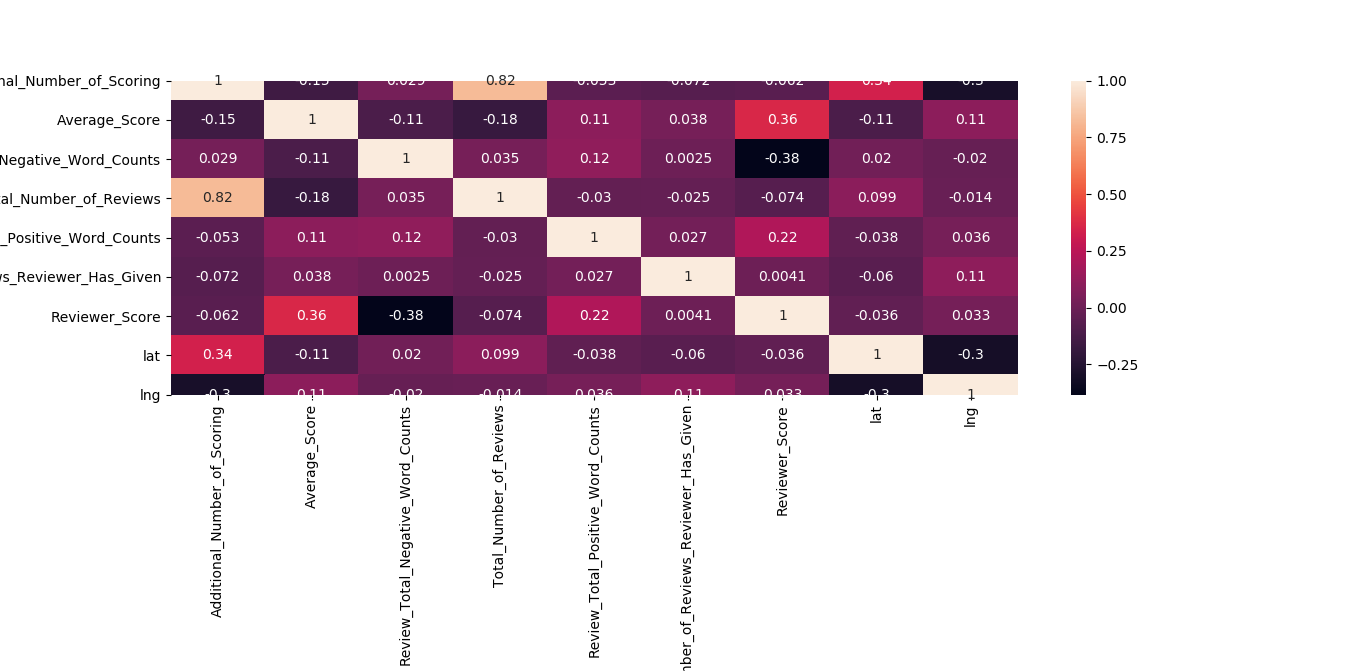
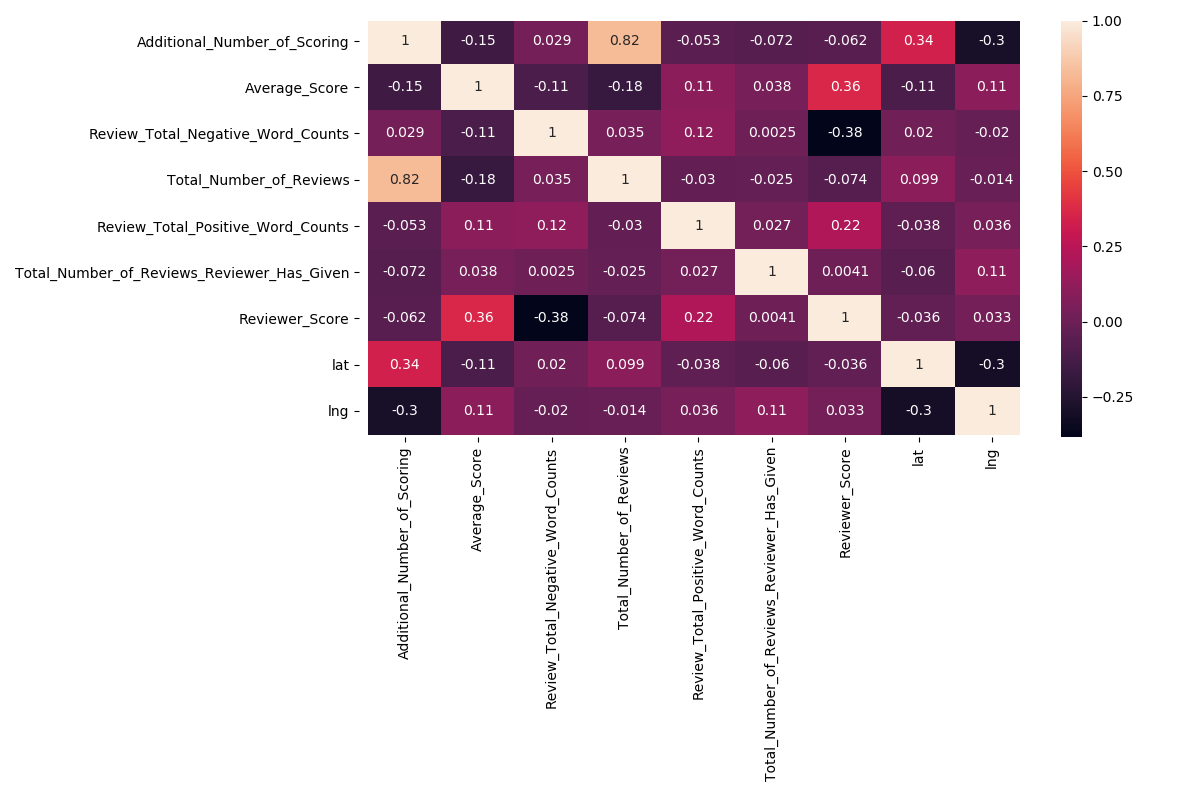
Polynomial Regression with all features

diff --git a/Preprocessing.py b/Preprocessing.py
@@ -1,0 +1,49 @@
+import numpy as np
+import pandas as pd
+import seaborn as sns
+import matplotlib.pyplot as plt
+from sklearn.model_selection import train_test_split
+from EditingLabels import *
+
+
+def preprocessing():
+    # Load Hotels data
+    data = pd.read_csv('Hotel_Reviews.csv')
+    # Drop the rows that contain missing values
+    data.dropna(how='any', inplace=True)
+    hotel_data = data.iloc[:, :]
+    
+    x = data.iloc[:, 1:11]  # Features
+    y = data['Reviewer_Score']  # Label
+    cols = ('Hotel_Name', 'Reviewer_Nationality')
+    x = feature_encoder(x, cols)
+    
+    """
+    #Replaces the values in a column in the dataframe with a specific value by the value that currently exists in it.
+    x.loc[x['Negative_Review'] == 'No Negative', 'Negative_Review'] = 0
+    x.loc[x['Negative_Review'] != 0, 'Negative_Review'] = 1
+    
+    x.loc[x['Positive_Review'] == 'No Positive', "Positive_Review"] = 0
+    x.loc[x['Positive_Review'] != 0, "Positive_Review"] = 1
+    """
+    x = x.drop(['Review_Date', 'Negative_Review', 'Positive_Review'], axis=1)
+    
+    for c in x:
+        print(c, x[c].values)
+    
+    y = np.expand_dims(y, axis=1)
+    x = feature_scaling(np.array(x), 0, 10)
+    
+    # Get the correlation between the features
+    corr = hotel_data.corr()
+    # Top 50% Correlation training features with the Value
+    top_feature = corr.index[corr['Reviewer_Score'] >= -1]
+    # Correlation plot
+    plt.subplots(figsize=(12, 8))
+    top_corr = hotel_data[top_feature].corr()
+    sns.heatmap(top_corr, annot=True)
+    plt.show()
+    
+    # Split the data to training and testing sets
+    x_train, x_test, y_train, y_test = train_test_split(x, y, test_size=0.30)
+    return x_train, x_test, y_train, y_test

diff --git a/EditingLabels.py b/EditingLabels.py
@@ -2,16 +2,16 @@ from sklearn.preprocessing import LabelEncoder
 import numpy as np
 
 
-def Feature_Encoder(X, cols):
+def feature_encoder(x, cols):
     for c in cols:
         lbl = LabelEncoder()
-        lbl.fit(list(X[c].values))
-        X[c] = lbl.transform(list(X[c].values))
-    return X
+        lbl.fit(list(x[c].values))
+        x[c] = lbl.transform(list(x[c].values))
+    return x
 
 
-def featureScaling(X, a, b):
-    Normalized_X = np.zeros((X.shape[0], X.shape[1]))
-    for i in range(X.shape[1]):
-        Normalized_X[:, i] = ((X[:, i]-min(X[:, i]))/(max(X[:, i])-min(X[:, i])))*(b-a)+a
-    return Normalized_X
+def feature_scaling(x, a, b):
+    normalized_x = np.zeros((x.shape[0], x.shape[1]))
+    for i in range(x.shape[1]):
+        normalized_x[:, i] = ((x[:, i] - min(x[:, i])) / (max(x[:, i]) - min(x[:, i]))) * (b - a) + a
+    return normalized_x

diff --git a/PolynomialRegression.py b/PolynomialRegression.py
@@ -1,0 +1,24 @@
+import numpy as np
+from sklearn import linear_model
+from sklearn import metrics
+from sklearn.preprocessing import PolynomialFeatures
+
+
+def polynomial_regression_all(x_train, x_test, y_train, y_test):
+    print(x_train[0])
+    poly_features = PolynomialFeatures(degree=2)
+
+    # transforms the existing features to higher degree features.
+    x_train_poly = poly_features.fit_transform(x_train)
+
+    # fit the transformed features to Linear Regression
+    poly_model = linear_model.LinearRegression()
+    poly_model.fit(x_train_poly, y_train)
+
+    # predicting on test data-set
+    prediction = poly_model.predict(poly_features.fit_transform(x_test))
+
+    error = metrics.mean_squared_error(y_test, prediction)
+    print('Mean Square Error of Polynomial Regression with 7 features: ', error)
+
+    return error

diff --git a/Main.py b/Main.py
@@ -1,0 +1,5 @@
+from Preprocessing import *
+from PolynomialRegression import *
+
+x_train, x_test, y_train, y_test = preprocessing()
+poly_error = polynomial_regression(x_train, x_test, y_train, y_test)
